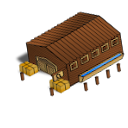
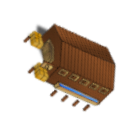
Solving issue #211

diff --git a/src/utils/GameView.java b/src/utils/GameView.java
@@ -156,7 +156,8 @@ public class GameView extends JComponent {
                 paintImageRotated(g, j * CELL_SIZE, i * CELL_SIZE, (r == null) ? null : r.getImage(t), imgSize, panTranslate);
 
                 Types.BUILDING b = board.getBuildingAt(i,j);
-                paintImageRotated(g, j*CELL_SIZE, i*CELL_SIZE, (b == null) ? null : b.getImage(), CELL_SIZE, panTranslate);
+                if (b != Types.BUILDING.CUSTOM_HOUSE) imgSize = CELL_SIZE;
+                paintImageRotated(g, j*CELL_SIZE, i*CELL_SIZE, (b == null) ? null : b.getImage(), imgSize, panTranslate);
             }
         }
     }
